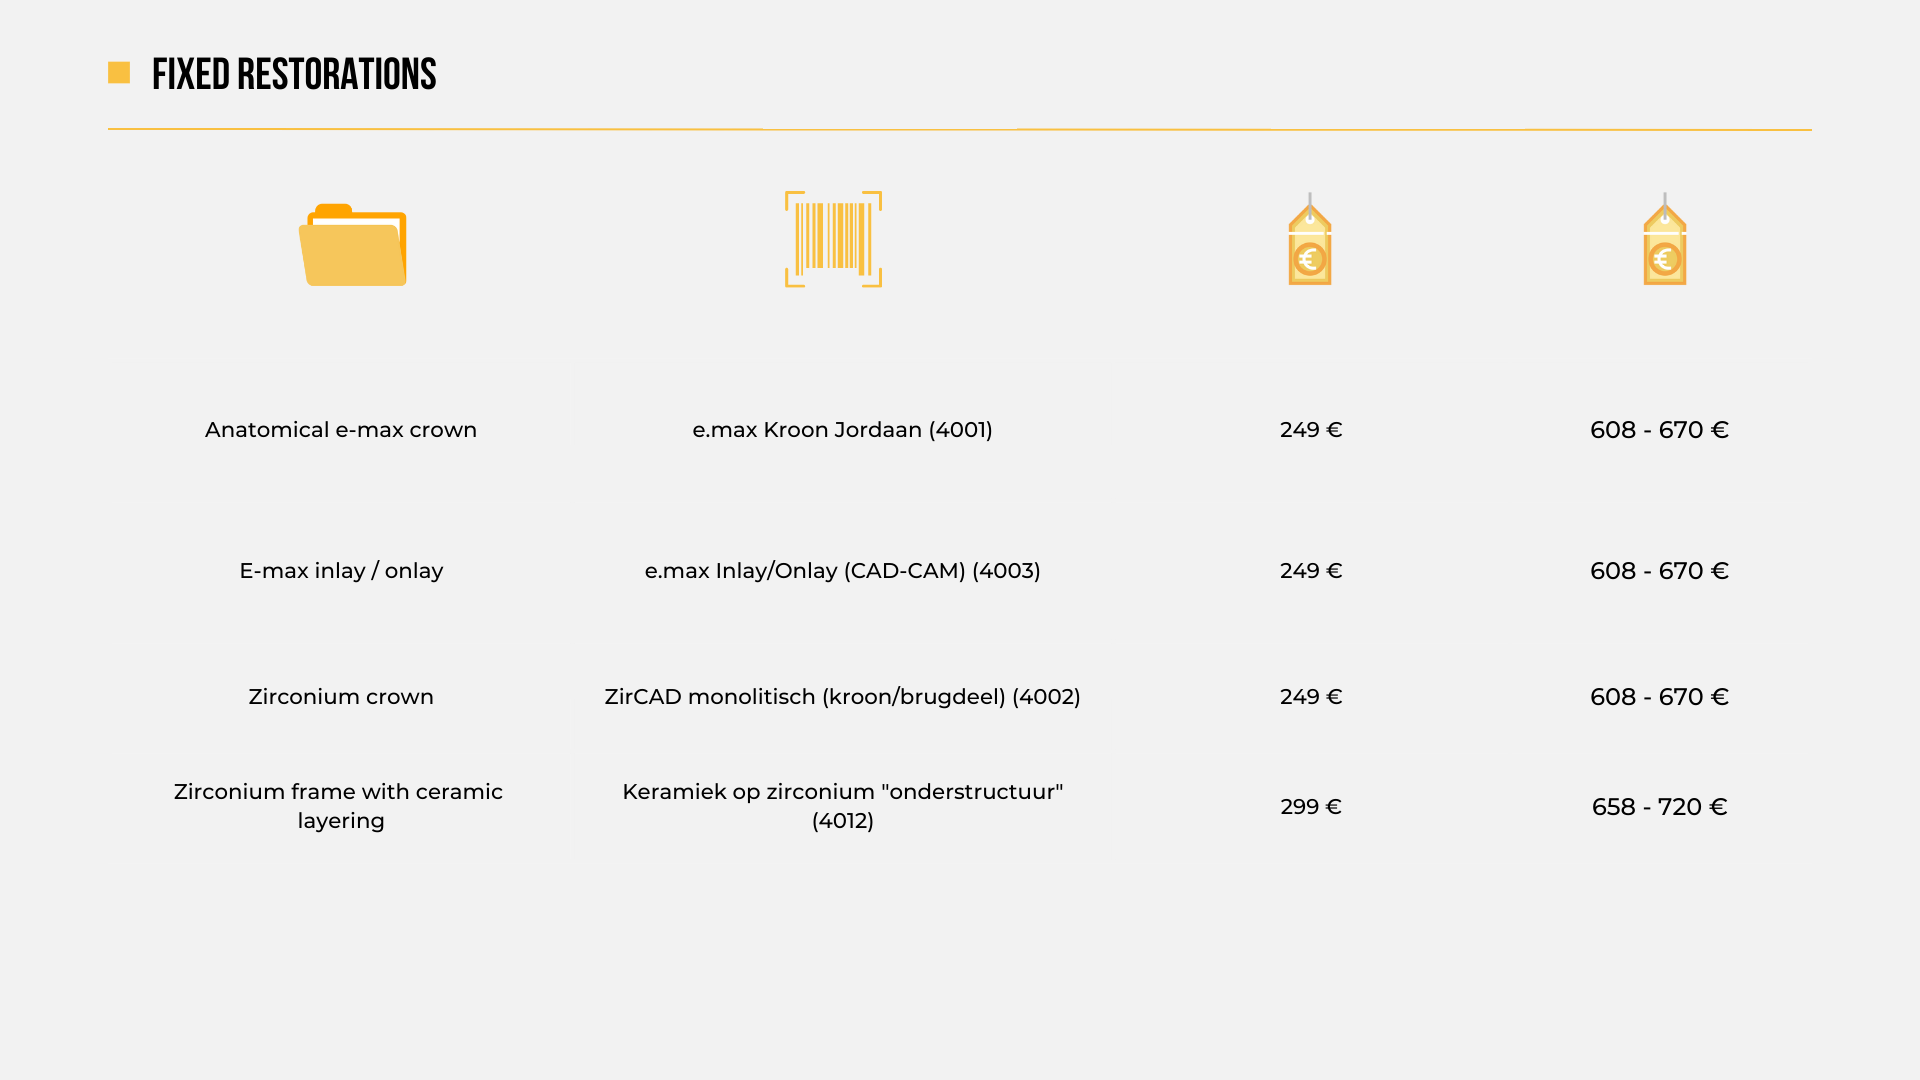
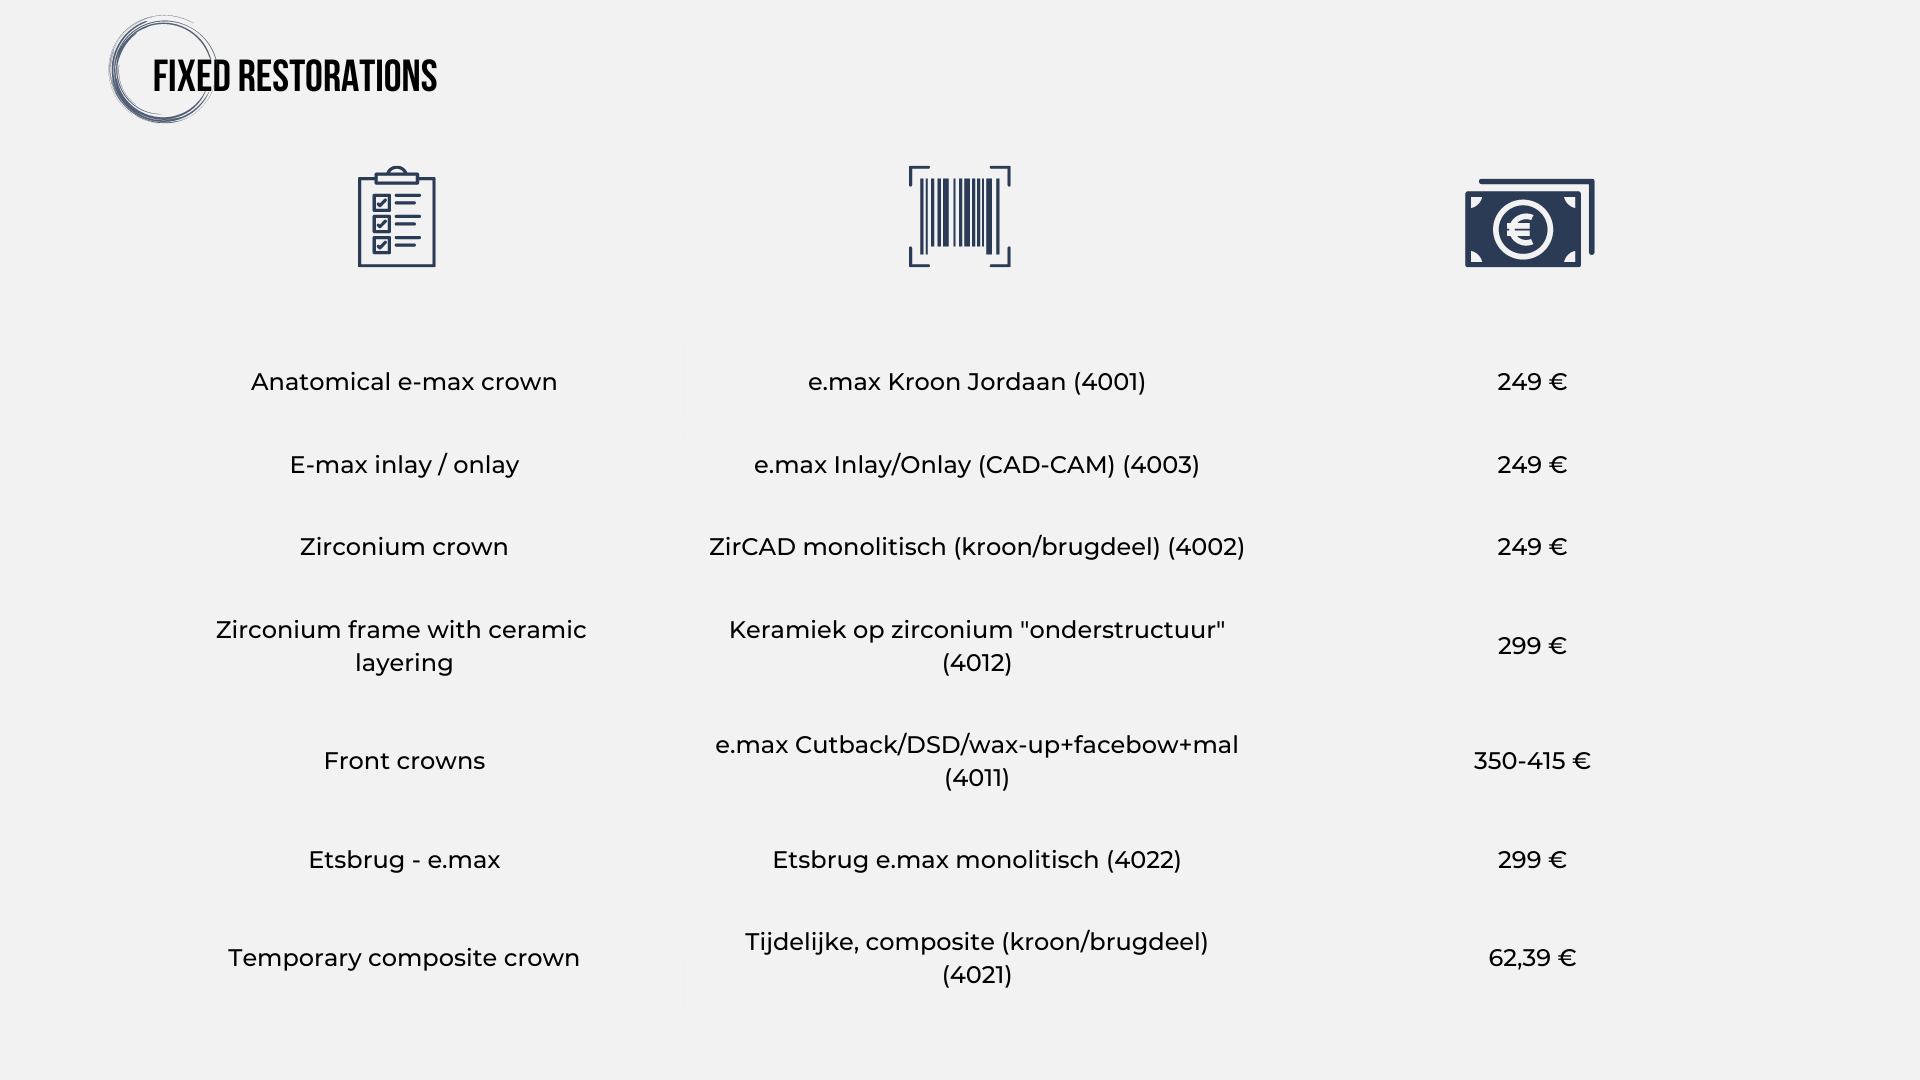
update prices menu design

diff --git a/prices.html b/prices.html
@@ -81,8 +81,7 @@
     <img src="images/prices menu/3.png" alt="">
     <img src="images/prices menu/4.png" alt="">
     <img src="images/prices menu/5.png" alt="">
-    <img src="images/prices menu/6.png" alt="">
-    <img class="lastPic" src="images/prices menu/7.png" alt="">
+    <img class="lastPic" src="images/prices menu/6.png" alt="">
 
     <script src="https://cdn.jsdelivr.net/npm/bootstrap@5.3.0-alpha1/dist/js/bootstrap.bundle.min.js"></script>
 </body>
